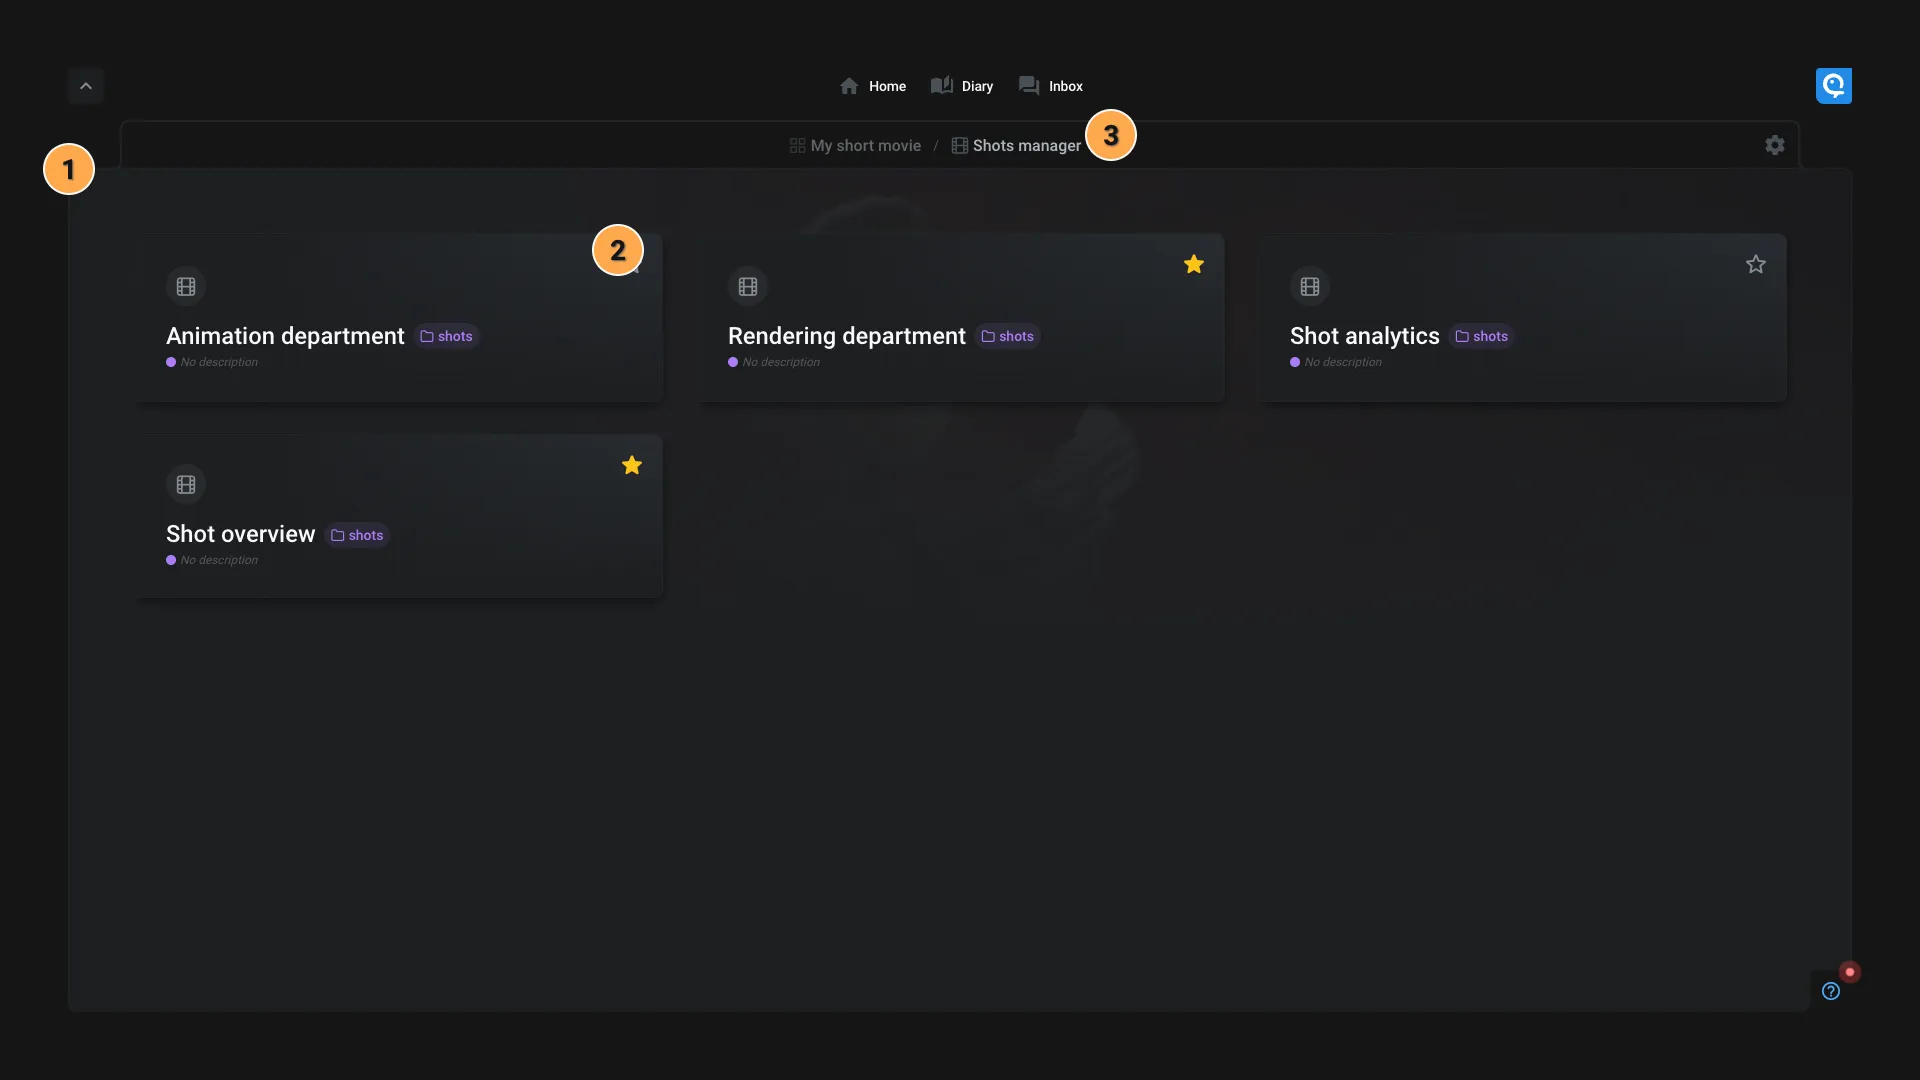
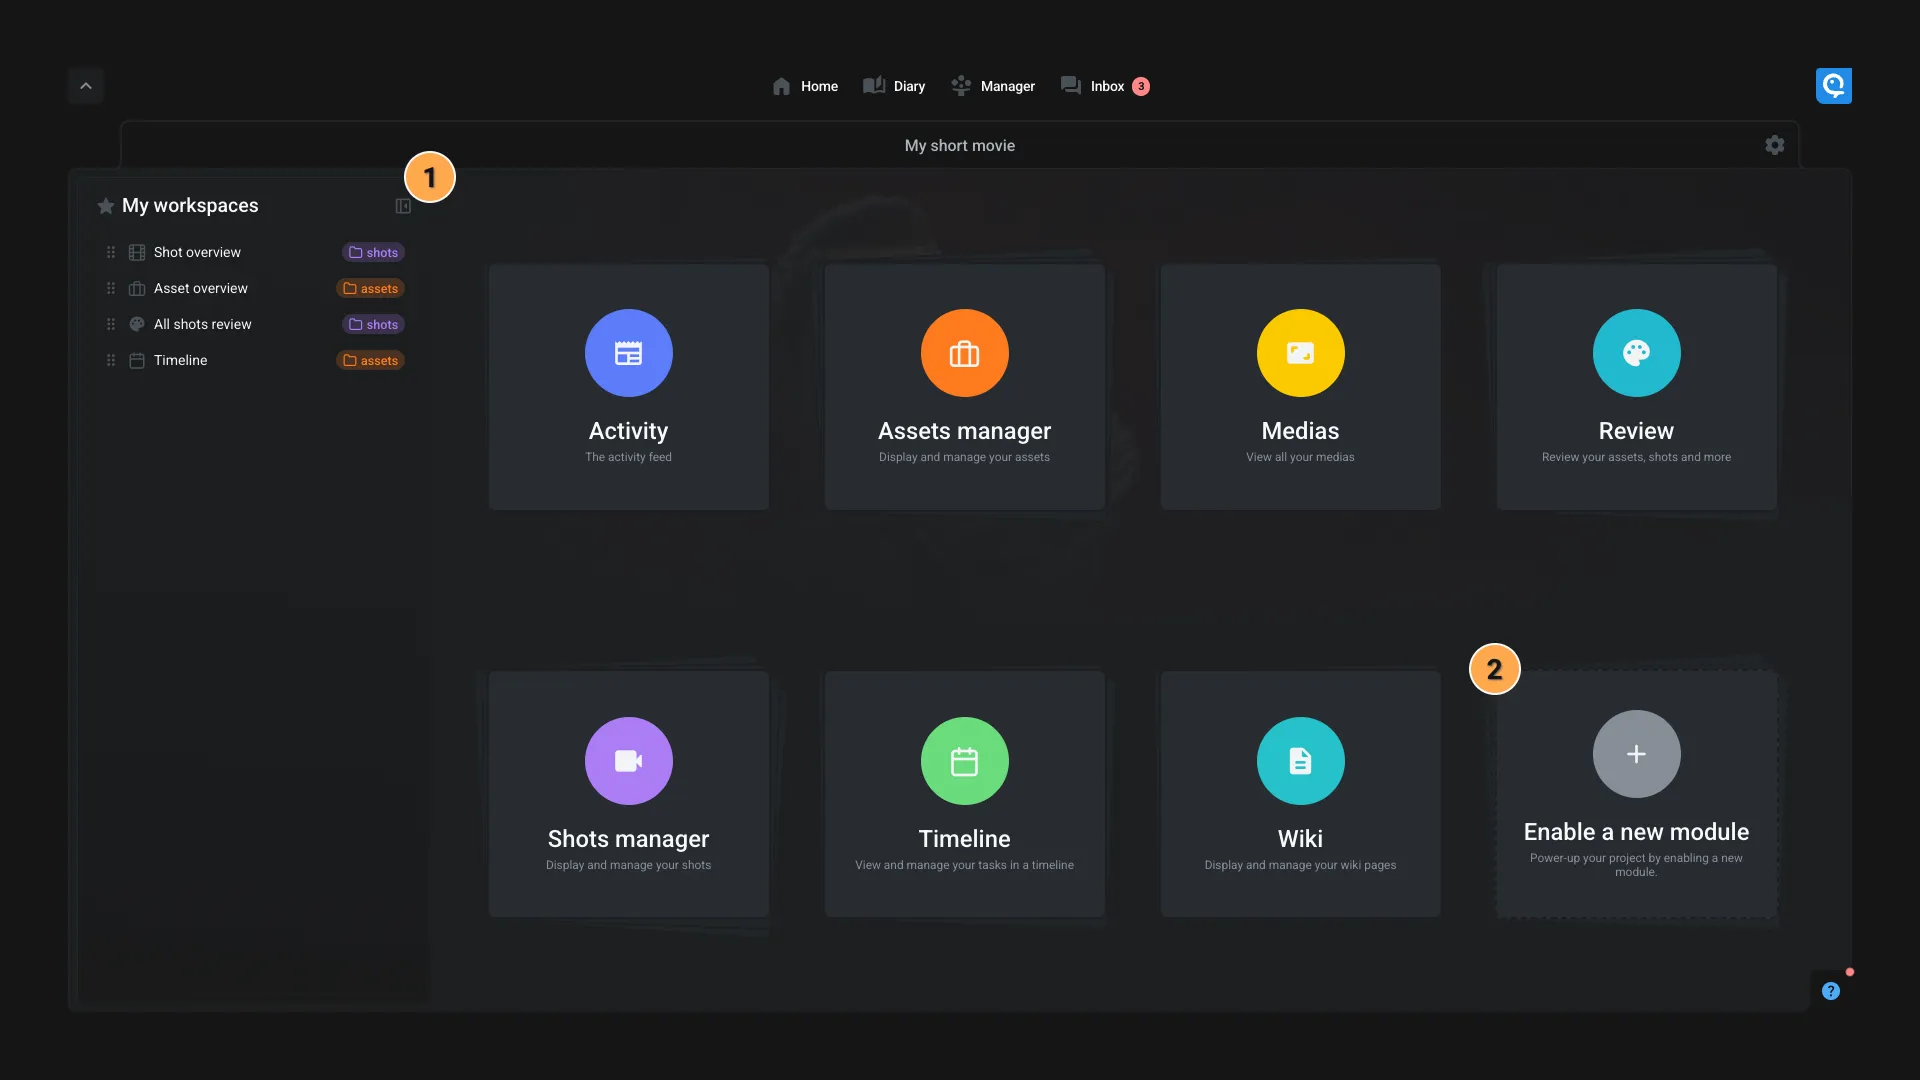
feat: Add new workspace favorite information

diff --git a/src/web/introduction/focus.md b/src/web/introduction/focus.md
@@ -12,11 +12,12 @@ This focus interface offer an easy way to discover and use Aquarium. It's also a
 
 ![Focus](../../_medias/screenshots/interface-focus.webp)
 
-On top of the screen, you can select 3 different pages :
+On top of the screen, you can select 4 different pages :
 
 - [Focus interface](#focus-interface)
   - [Home](#home)
   - [Diary](#diary)
+  - [Manager](#manager)
   - [Inbox](#inbox)
 
 ## Home
@@ -27,21 +28,19 @@ When you click on a project, you will have more information about it.
 
 ![Focus project](../../_medias/screenshots/focus-project.webp)
 
-1. **Favorite workspaces**: At the top of the interface, you can see your favorite workspaces. You can add a workspace as favorite by clicking on it and then on the <span class="aq-icon outline">star</span> icon, or from the [workspace settings](../applications/workspaces.md#favorites).
-2. **Other workspace**: We regrouped the workspaces based on their type. Each type is dedicated for a specific needs (ex: shots manager, wiki, ...). You can have the full [list of all available workspaces](../workspaces/index.md) in the dedicated documentation.
+1. **Favorite workspaces**: In this sidebar, you can see your favorite workspaces. You can add a workspace as favorite by clicking on it and then on the <span class="aq-icon outline">star</span> icon, or from the [workspace settings](../applications/workspaces.md#favorites). As a manager you can add a workspace as favorite for users.
+2. **Other workspace**: All other workspace from the same type are available here. You can click on a workspace to open it. It wont be added to your favorites automatically.
+  1. **Create another workspace**: You can create a new workspace of same type from the menu.
 3. **Project settings**: Open the [project settings](../applications/projectsettings.md) of the project.
 
-Once you click on a workspace type, you have the list of all workspace available :
+If you go back to the root project page using the breadcrumb, you can see all the modules available in the project.:
 
 ![Focus project workspaces](../../_medias/screenshots/focus-project-workspaces.webp)
 
-1. **Workspaces list**: All the workspaces of the selected type are displayed. You can click on a workspace to open it.
-2. **Add as favorite**: You can add a workspace as favorite by clicking on the <span class="aq-icon outline">star</span> icon. If the workspace is already a favorite, you can remove it by clicking on the <span class="aq-icon">star</span> icon.
-3. **Create another workspace**: You can create a new workspace of the selected type by clicking on the <span class="aq-icon">add</span> icon.
+Each type is dedicated for a specific needs (ex: shots manager, wiki, ...). You can have the full [list of all available workspaces](../workspaces/index.md) in the dedicated documentation.
 
-Once you clicked on a workspace, you can see its content :
-
-![Workspace](../../_medias/screenshots/focus-project-workspace.webp)
+1. **Favorite workspaces**: Your favorite workspaces are always accessible from here.
+2. **Enable a new module**: If you want to add a new module, you can click on the last one. Even if a module is already enabled, you can reuse it to create a new workspace with the same type.
 
 ## Diary
 
@@ -58,11 +57,18 @@ If a task is already assigned to you, you can check the box "I worked" to create
 
 Grab the end of a timelog to change its duration.
 
+## Manager
+
+![Manager](../../_medias/screenshots/focus-manager.webp)
+
+This page is very useful for having access to information accross all your projects and for a specific team. We currently have 2 main sections :
+
+- **Timelogs**: This give you an overview of all the timelogs of the team for a given week. It's perfect to see if the team is working on the right tasks and if all the timelogs are correctly filled. You can also see the total time worked for each user.
+- **Workload**: When working on multiple projects, it's important to know if someone is available to work on a new task and not overloaded. This page give you an overview of the workload of the team for a given week. You can see the total time worked for each user and the total time available. When you click on a day, you can see the details of the tasks assigned to the user.
+
 ## Inbox
 
-The inbox is a dedicated interface to manage the conversation where you are involved.
+The inbox is a dedicated interface to see all your notifications.
 
 ![Inbox](../../_medias/screenshots/focus-inbox.webp)
-
-In a near future, you will be able to see your notifications too.
 

diff --git a/src/web/introduction/studio.md b/src/web/introduction/studio.md
@@ -33,3 +33,15 @@ The difference is that in Aquarium, you can create as many workspace as you want
 The other difference is that you can choose the depth of the display. Meaning that you can display items that are stored in subitems.
 
 We also created different types of workspace, to respond to specific project needs : shots manager, wiki, media manager, ... You can check the full list of [available workspaces in the dedicated documentation](../workspaces/index.md#workspace-types).
+
+### Workspaces tabs
+
+The workspaces are displayed like tabs. You can click on a workspace to open it.
+
+![Workspaces tabs](../../_medias/screenshots/studio-workspaces-tabs.webp)
+
+If at least one workspace is marked as a Favorite one for you, then only your favorites workspaces will be displayed. You can click on the `Add workspace` button to see the other workspaces available at the current location. From this menu, you can also :
+
+- Add or remove a workspace as favorite
+- Create a new workspace
+- Open another workspace
